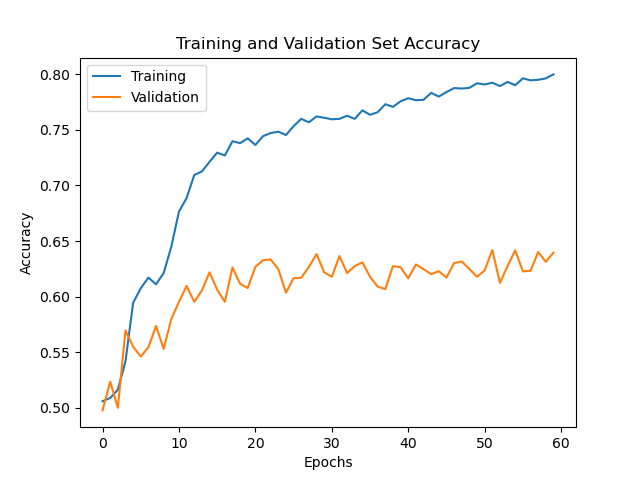
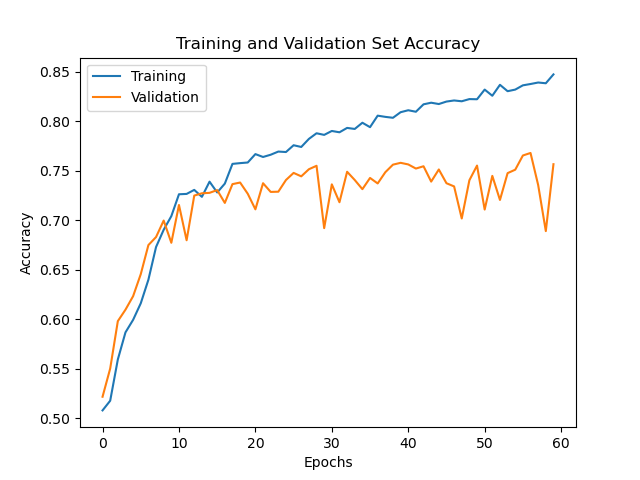
final changes implemented

diff --git a/recognition/s4583670_ViT/utils.py b/recognition/s4583670_ViT/utils.py
@@ -17,7 +17,7 @@ Parameters:
     valid_dir - new validation file directory
     file_limit - number of files to store in validation directory
 '''
-def move_files(directory, valid_dir):
+def create_train_val_split(directory, valid_dir):
     files = defaultdict(set)
     file_limit = int(len(os.listdir(directory)) * 0.2)
     print(file_limit)
@@ -54,5 +54,5 @@ if __name__ == "__main__":
     valid_NC_dir = os.path.join(data_dir, "valid/NC")
 
     # Move the files
-    move_files(train_AD_dir, valid_AD_dir)
-    move_files(train_NC_dir, valid_NC_dir)
+    create_train_val_split(train_AD_dir, valid_AD_dir)
+    create_train_val_split(train_NC_dir, valid_NC_dir)

diff --git a/recognition/s4583670_ViT/predict.py b/recognition/s4583670_ViT/predict.py
@@ -69,7 +69,7 @@ def main():
     device = torch.device('cuda' if torch.cuda.is_available() else 'cpu')
 
     # Load the model in
-    model = torch.load('model_69.pt')
+    model = torch.load('model.pt')
     model.eval()
 
     # Get the test dataset 

diff --git a/recognition/s4583670_ViT/README.md b/recognition/s4583670_ViT/README.md
@@ -238,12 +238,12 @@ python train.py --hide-plots true
 ```
 
 ## Results
-After the training and hyperparameter tuning process, the trained vision transformer performed with a test accuracy of ```69.65%```. 
+After the training and hyperparameter tuning process, the trained vision transformer performed with a test accuracy of ```67.65%```. 
 
 ![alt text](images/losses5.png)
 ![alt text](images/accuracy5.png)
 
-The training and validation accuracy of the model lies at about ```80%``` and ```63%``` respectively. This is indicative of some overfitting to the training data. It was particularly hard to reduce this overfitting effect due to the small size of the dataset. In order to improve the model, more data is needed (need more samples or higher dimensional data). 
+The training and validation accuracy of the model lies at about ```85%``` and ```75%``` respectively. This is indicative of some overfitting to the training data. It was particularly hard to reduce this overfitting effect due to the small size of the dataset. In order to improve the model, more data is needed (need more samples or higher dimensional data). 
 
 ### Example Usage of Model
 ```predict.py``` shows an example use of the trained model by taking a random batch of the test dataset, showing this batch, and then predicting the classes to test accuracy. The script relies on the ```model.pt``` file that is saved after training the model. To use this script please run:
@@ -350,13 +350,13 @@ Target Class NC - Predicted Class NC
 Sample 31:
 Target Class NC - Predicted Class NC
 
-Test Accuracy 75.00
+Test Accuracy 68.04
 Test CE Loss 0.69
 ```
-So, for this particular batch of data, the model performed admirably at ```75%```.
+So, for this particular batch of data, the model performed admirably at ```68.04%```.
 
 ### Reproducibility
-Running ```predict.py``` several times to test the reproducibility of the model produced similar results. Accuracies of ```71.88%```, ```65.62%```, and ```75.08%``` were achieved over several runs. These results suggest the results of the model are reproducible once trained. In terms of training the model again and getting the same results, tests indicated that a retrained model produces similar results with full test dataset accuracies ```71%``` and ```68%``` being achieved.
+Running ```predict.py``` several times to test the reproducibility of the model produced similar results. Accuracies of ```63.88%```, ```65.62%```, and ```75.08%``` were achieved over several runs. These results suggest the results of the model are reproducible once trained. In terms of training the model again and getting the same results, tests indicated that a retrained model produces similar results with full test dataset accuracies ```71%``` and ```68%``` being achieved.
 
 ## Training and Hyperparameter Tuning
 This section describes the methodology and thought process behind the training and hyperparameter tuning process.
@@ -392,6 +392,6 @@ The model was still overfitting but the changes have decreased the losses in the
 ![alt text](images/losses4.png)
 ![alt text](images/accuracy4.png)
 
-The model is still overfitting. At this point, I decided to take a different approach. As there is significantly less data in the dataset than a usual deep learning model is trained on, I decided to make the model more simple. All regularisation (dropout and weight decay) was removed, the number of encoder layers was decreased to 4, the image patch size was decreased to 4, the MLP dimension was decreased to 128, and the MLP head dimension was decreased to 512. The results of this changed produced the model which performed with ```69%``` test accuracy.
+The model is still overfitting. At this point, I decided to take a different approach. As there is significantly less data in the dataset than a usual deep learning model is trained on, I decided to make the model more simple. All regularisation (dropout and weight decay) was removed, the number of encoder layers was decreased to 4, the image patch size was decreased to 4, the MLP dimension was decreased to 128, and the MLP head dimension was decreased to 512. On top of this, at this point I realised the code may be experiencing some data leakage, so I cleaned this up. The results of this changed produced the model which performed with ```69%``` test accuracy.
 
 
